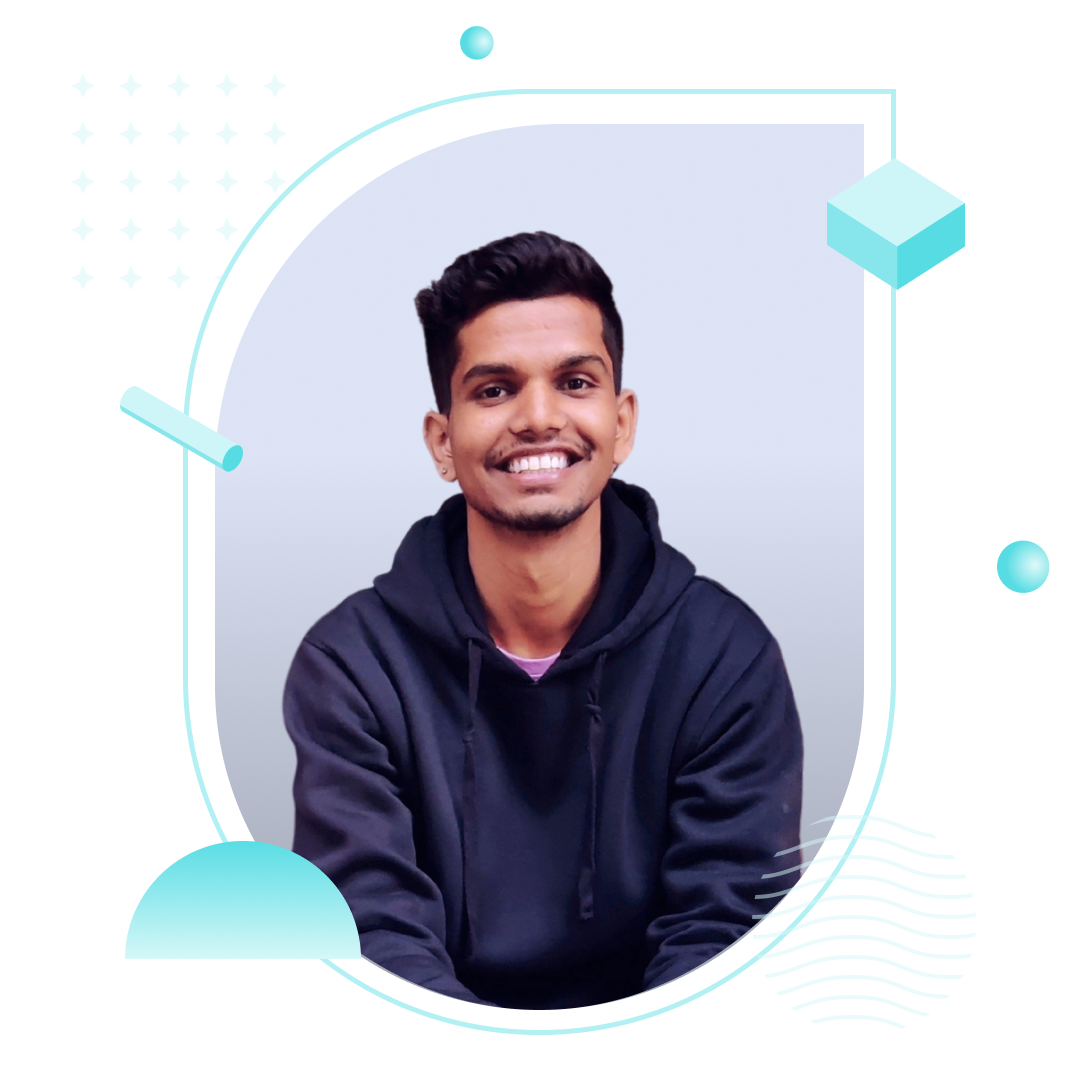
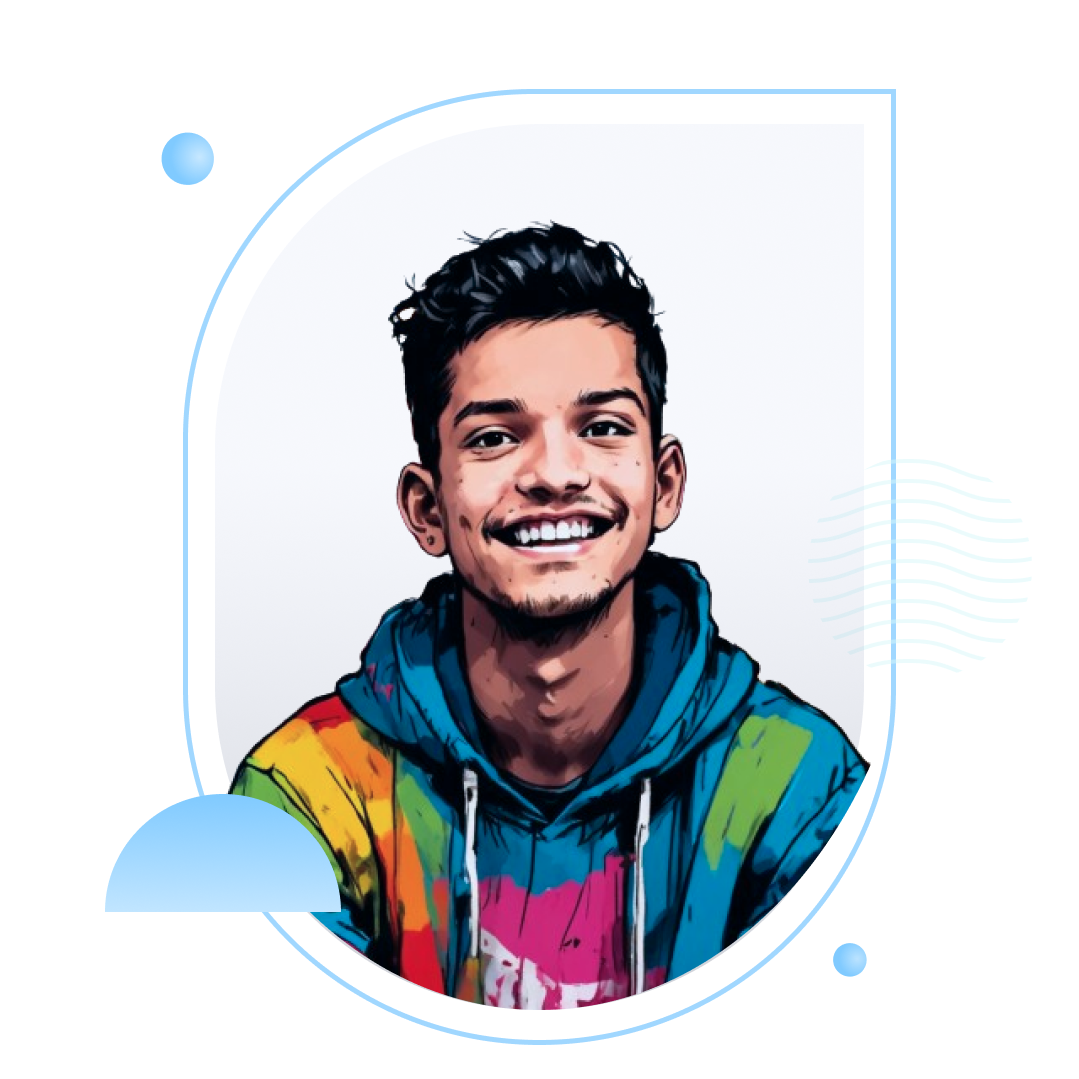
Photo change

diff --git a/src/components/Hero2.jsx b/src/components/Hero2.jsx
@@ -1,4 +1,4 @@
-import { profile2 } from "../assets";
+import { profile } from "../assets";
 
 export default function Hero2() {
   return (
@@ -71,7 +71,7 @@ export default function Hero2() {
         </div>
         <div className="mx-auto flex-1">
           <div className="w-full md:w-4/5 mx-auto">
-            <img src={profile2} alt="App screenshot" className="rounded-md" />
+            <img src={profile} alt="App screenshot" className="rounded-md" />
           </div>
         </div>
       </div>
